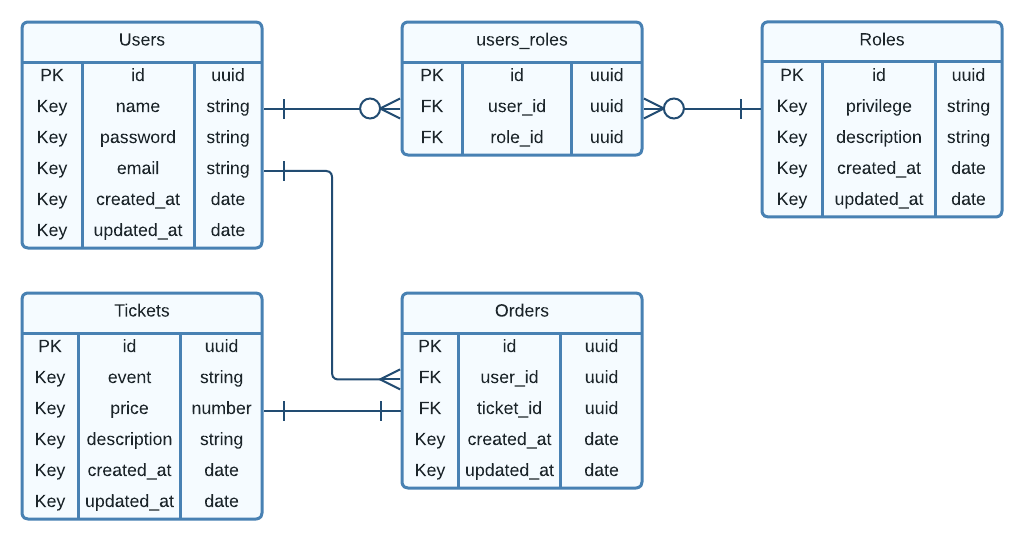
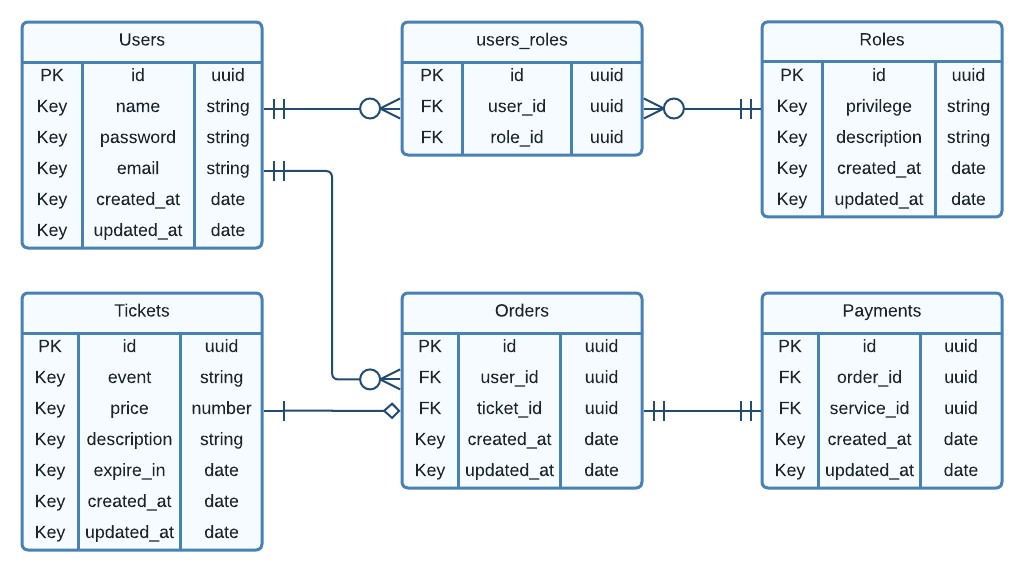
📃 docs: update diagram and add first draft of requirements

diff --git a/.docs/requisitos.md b/.docs/requisitos.md
@@ -1,0 +1,65 @@
+# Requisitos do sistema
+
+## Cadastro usuários
+
+```
+**RF**
+- Deve ser possível cadastrar um usuário.
+
+**RNF**
+- Não deve ser possível cadastrar um usuário com email já existente.
+```
+
+## Recuperar senha
+
+```
+**RF**
+- Deve ser possível recuperar a senha para o usuário informando o email.
+- O usuário deve receber um email com o passo a passo para recuperar a senha.
+- O usuário deve conseguir inserir uma nova senha.
+
+**RNF**
+- O usuário precisa informar uma nova senha.
+
+```
+
+## Listagem de ingressos
+
+```
+**RF**
+- Deve ser possível buscar todos os ingressos cadastrados na plataforma.
+
+**RNF**
+- O usuário não precisa estar logado na aplicação
+```
+
+## Cadastro de ingressos
+
+```
+**RF**
+- Deve ser possível cadastrar um novo ingresso na plataforma.
+
+**RNF**
+- O usuário responsável pelo cadastro deve ter privilégio de administrador.
+- Não deve ser possível cadastrar ingressos com o mesmo nome de evento.
+```
+
+## Remoção e modificação de ingressos
+
+```
+**RF**
+- Deve ser possível remover/modificar um ingresso cadastrado no sistema.
+
+**RNF**
+- O usuário responsável deve ter privilégio de administrador.
+```
+
+## Nova ordem de usuário
+
+```
+**RF**
+- Deve ser possível realizar uma ordem de compra para um ingresso cadastrado na plataforma.
+
+**RNF**
+- O usuário precisa estar logado na aplicação.
+```
